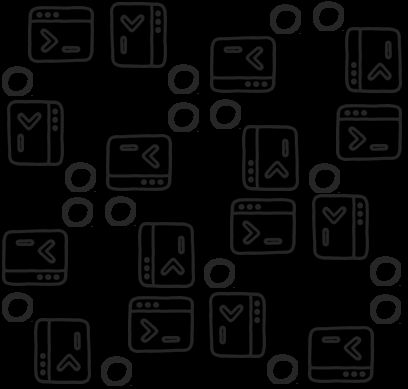
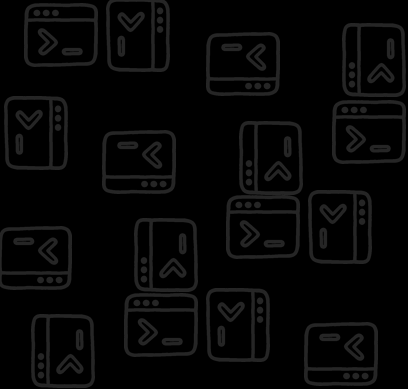
fix(ui): drop the ring layer the new backdrops copied from default.png
The tiles were laid out on default.png's slot table, and that included its second
layer: sixteen 31 px rings sitting in the gaps between the notes. Those rings are
part of the note motif - whatever they mean there, next to a padlock or a terminal
window they read as dots pasted in from another image, which is exactly what they
were.

The icons go from 66 to 74 px, which is what fills the gap the rings leave behind.
Same slots, same four rotations, same 38 grey.

Changed region(s): [[0.0, 0.0, 1.0, 1.0]]

diff --git a/docs/SESSION_CHANGES.md b/docs/SESSION_CHANGES.md
@@ -212,8 +212,9 @@ V7（key token 只是混淆，不是分发密钥的安全手段）。
 
 - `assets/images/editors/bgs/` 新增两张：`cmd.png`（终端窗口）、`lock.png`（挂锁）。
   都是 408×389、黑底、描边 38 灰，和 `charter.png` / `default.png` 同一套参数。
-  排布**直接用的是 `default.png` 自己的 16 个槽位**（位置、抖动、四个朝向各四个、外加
-  同一层小圆环），所以布局节奏和它完全一致，不是另外设计一套。
+  排布**直接用的是 `default.png` 自己的 16 个槽位**（位置、抖动、四个朝向各四个），所以布局节奏
+  和它一致，不是另外设计一套。`default.png` 里那层 31px 小圆环**没有搬**——那是音符的附属图案，
+  放到挂锁/终端旁边只会像贴上去的；少了它，字因而放大到 74px，补回一点密度。
 - `PopupScreen` 新增 `bgType`：设了就在遮罩之上铺一层 `FlxBackdrop`，倾斜 −5°、85 px/s
   平移，和 `EditorTreeMenu` 的编辑器背景同一套参数。分层顺序是"遮罩 → 背景 → 面板"：
   背景本身已经是 15% 灰，压在 70% 遮罩下面会被压到 4%，等于看不见。
